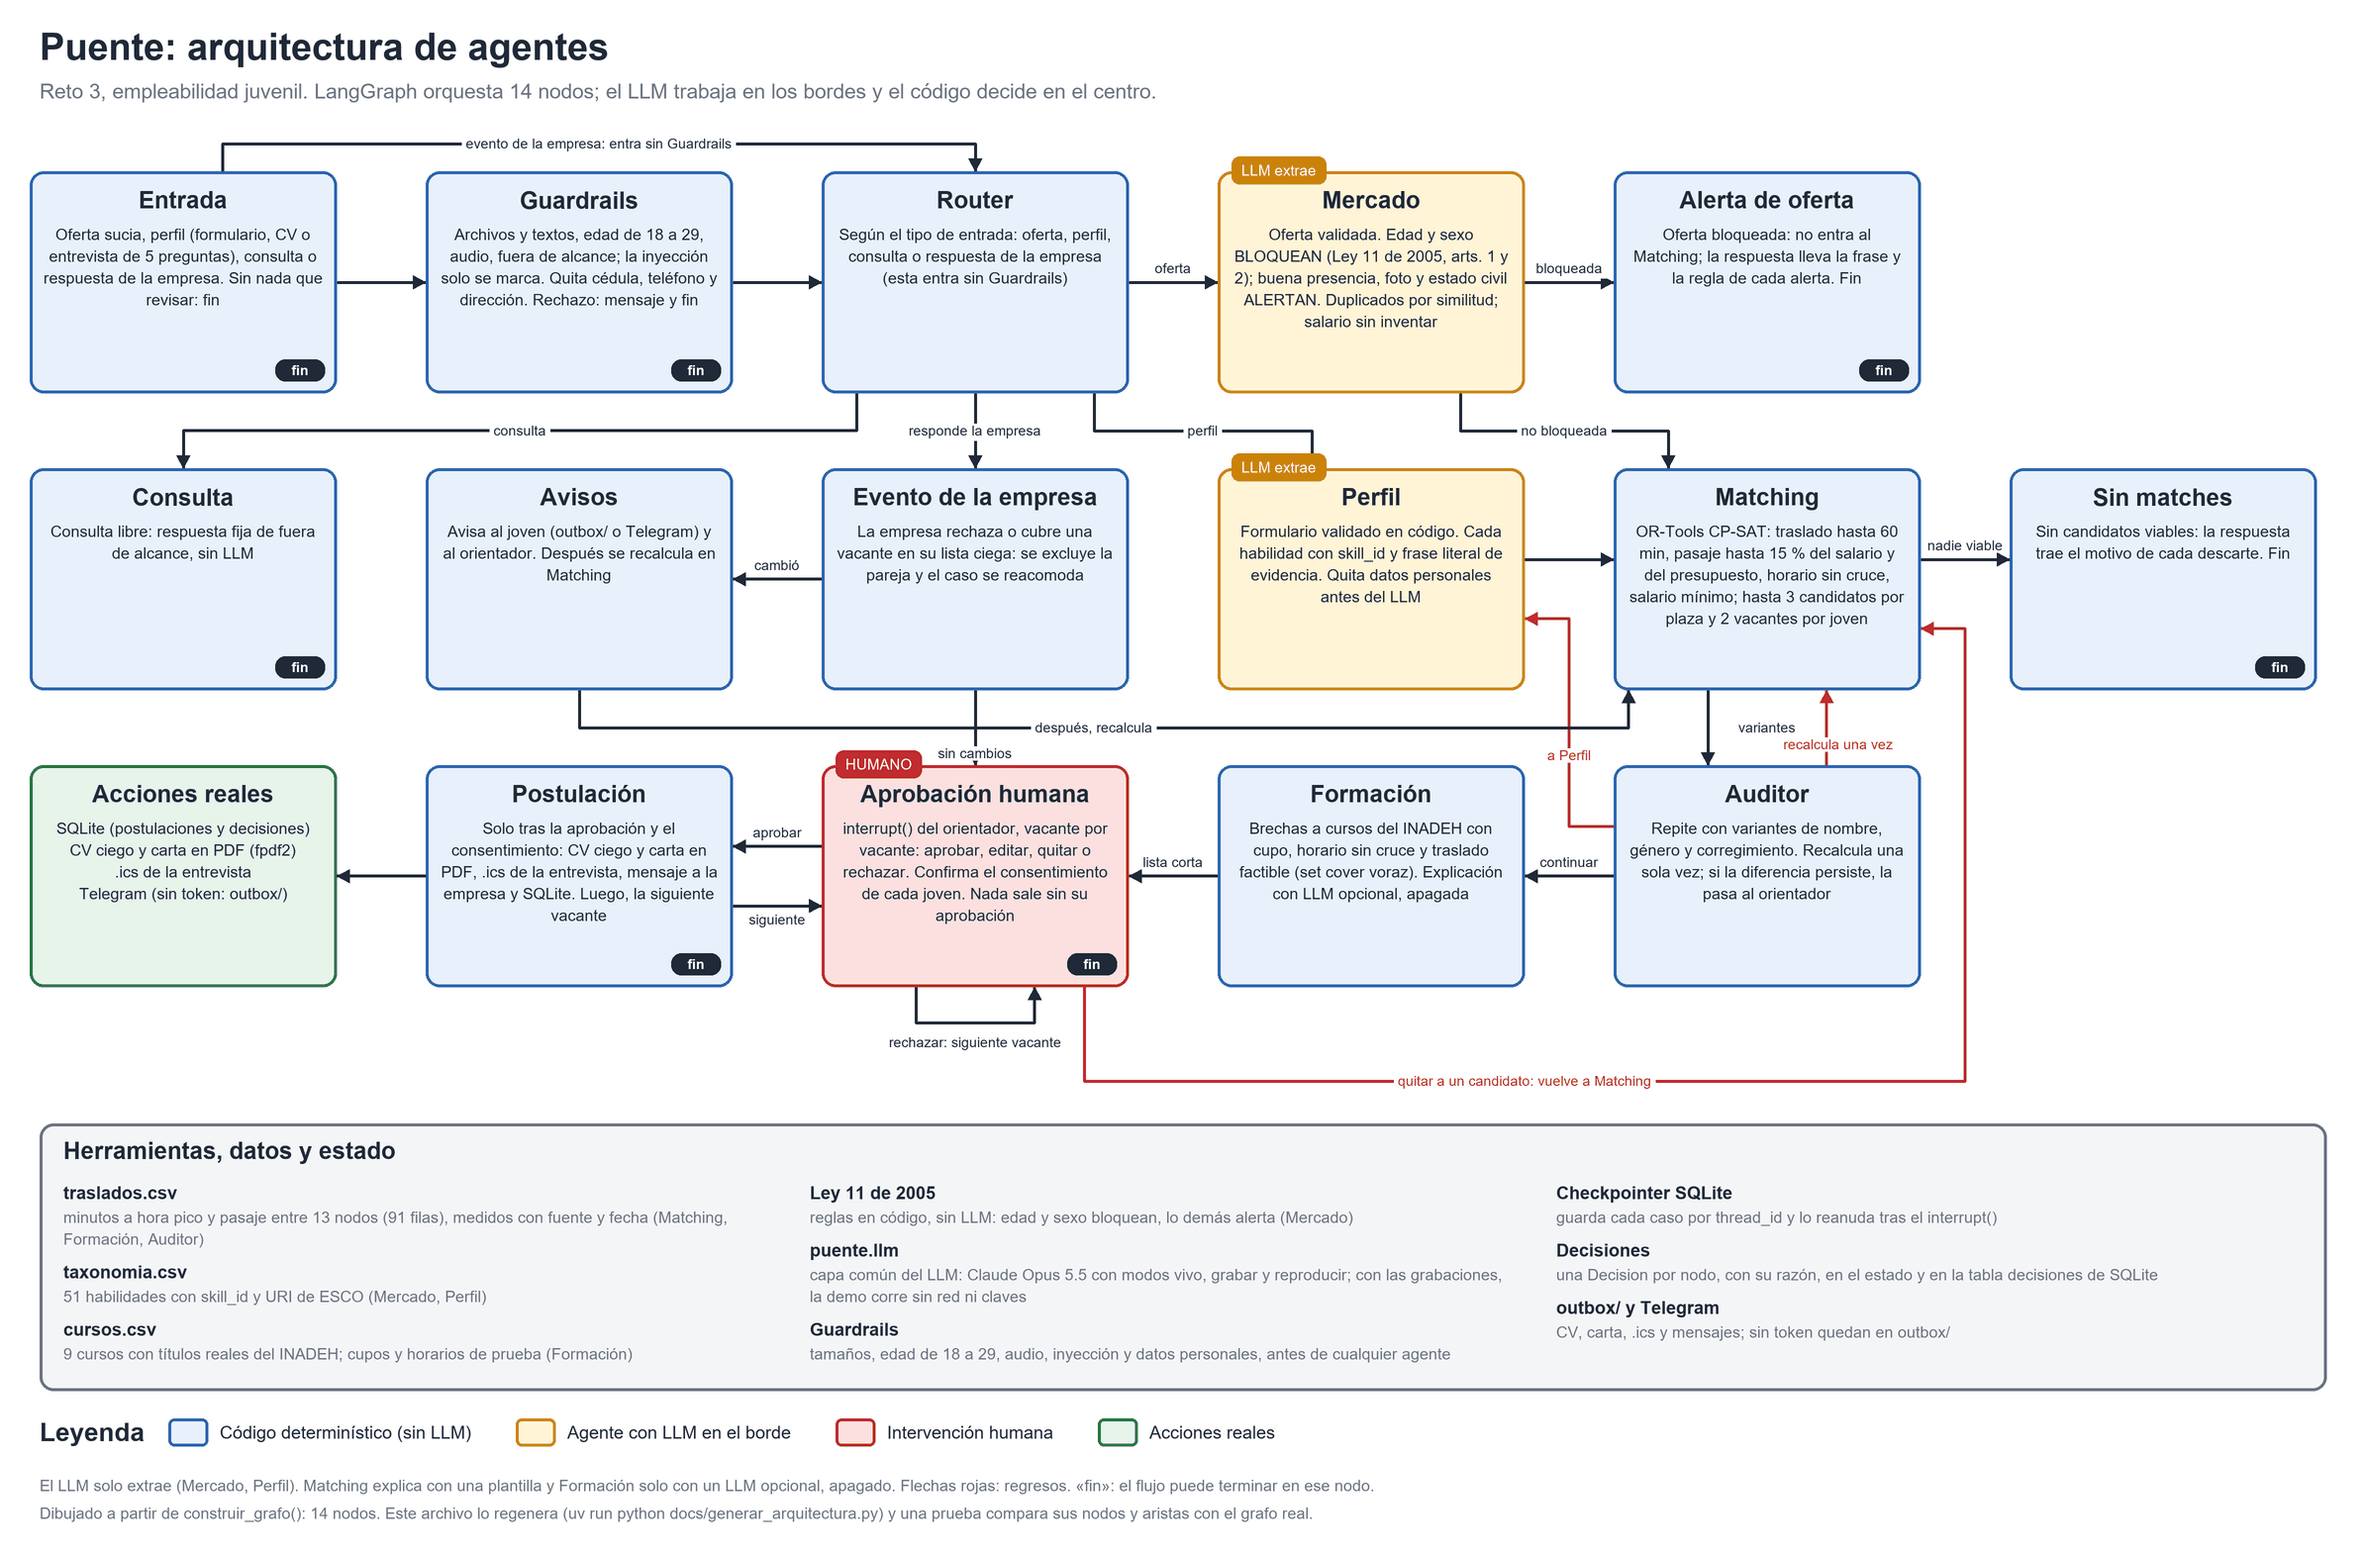
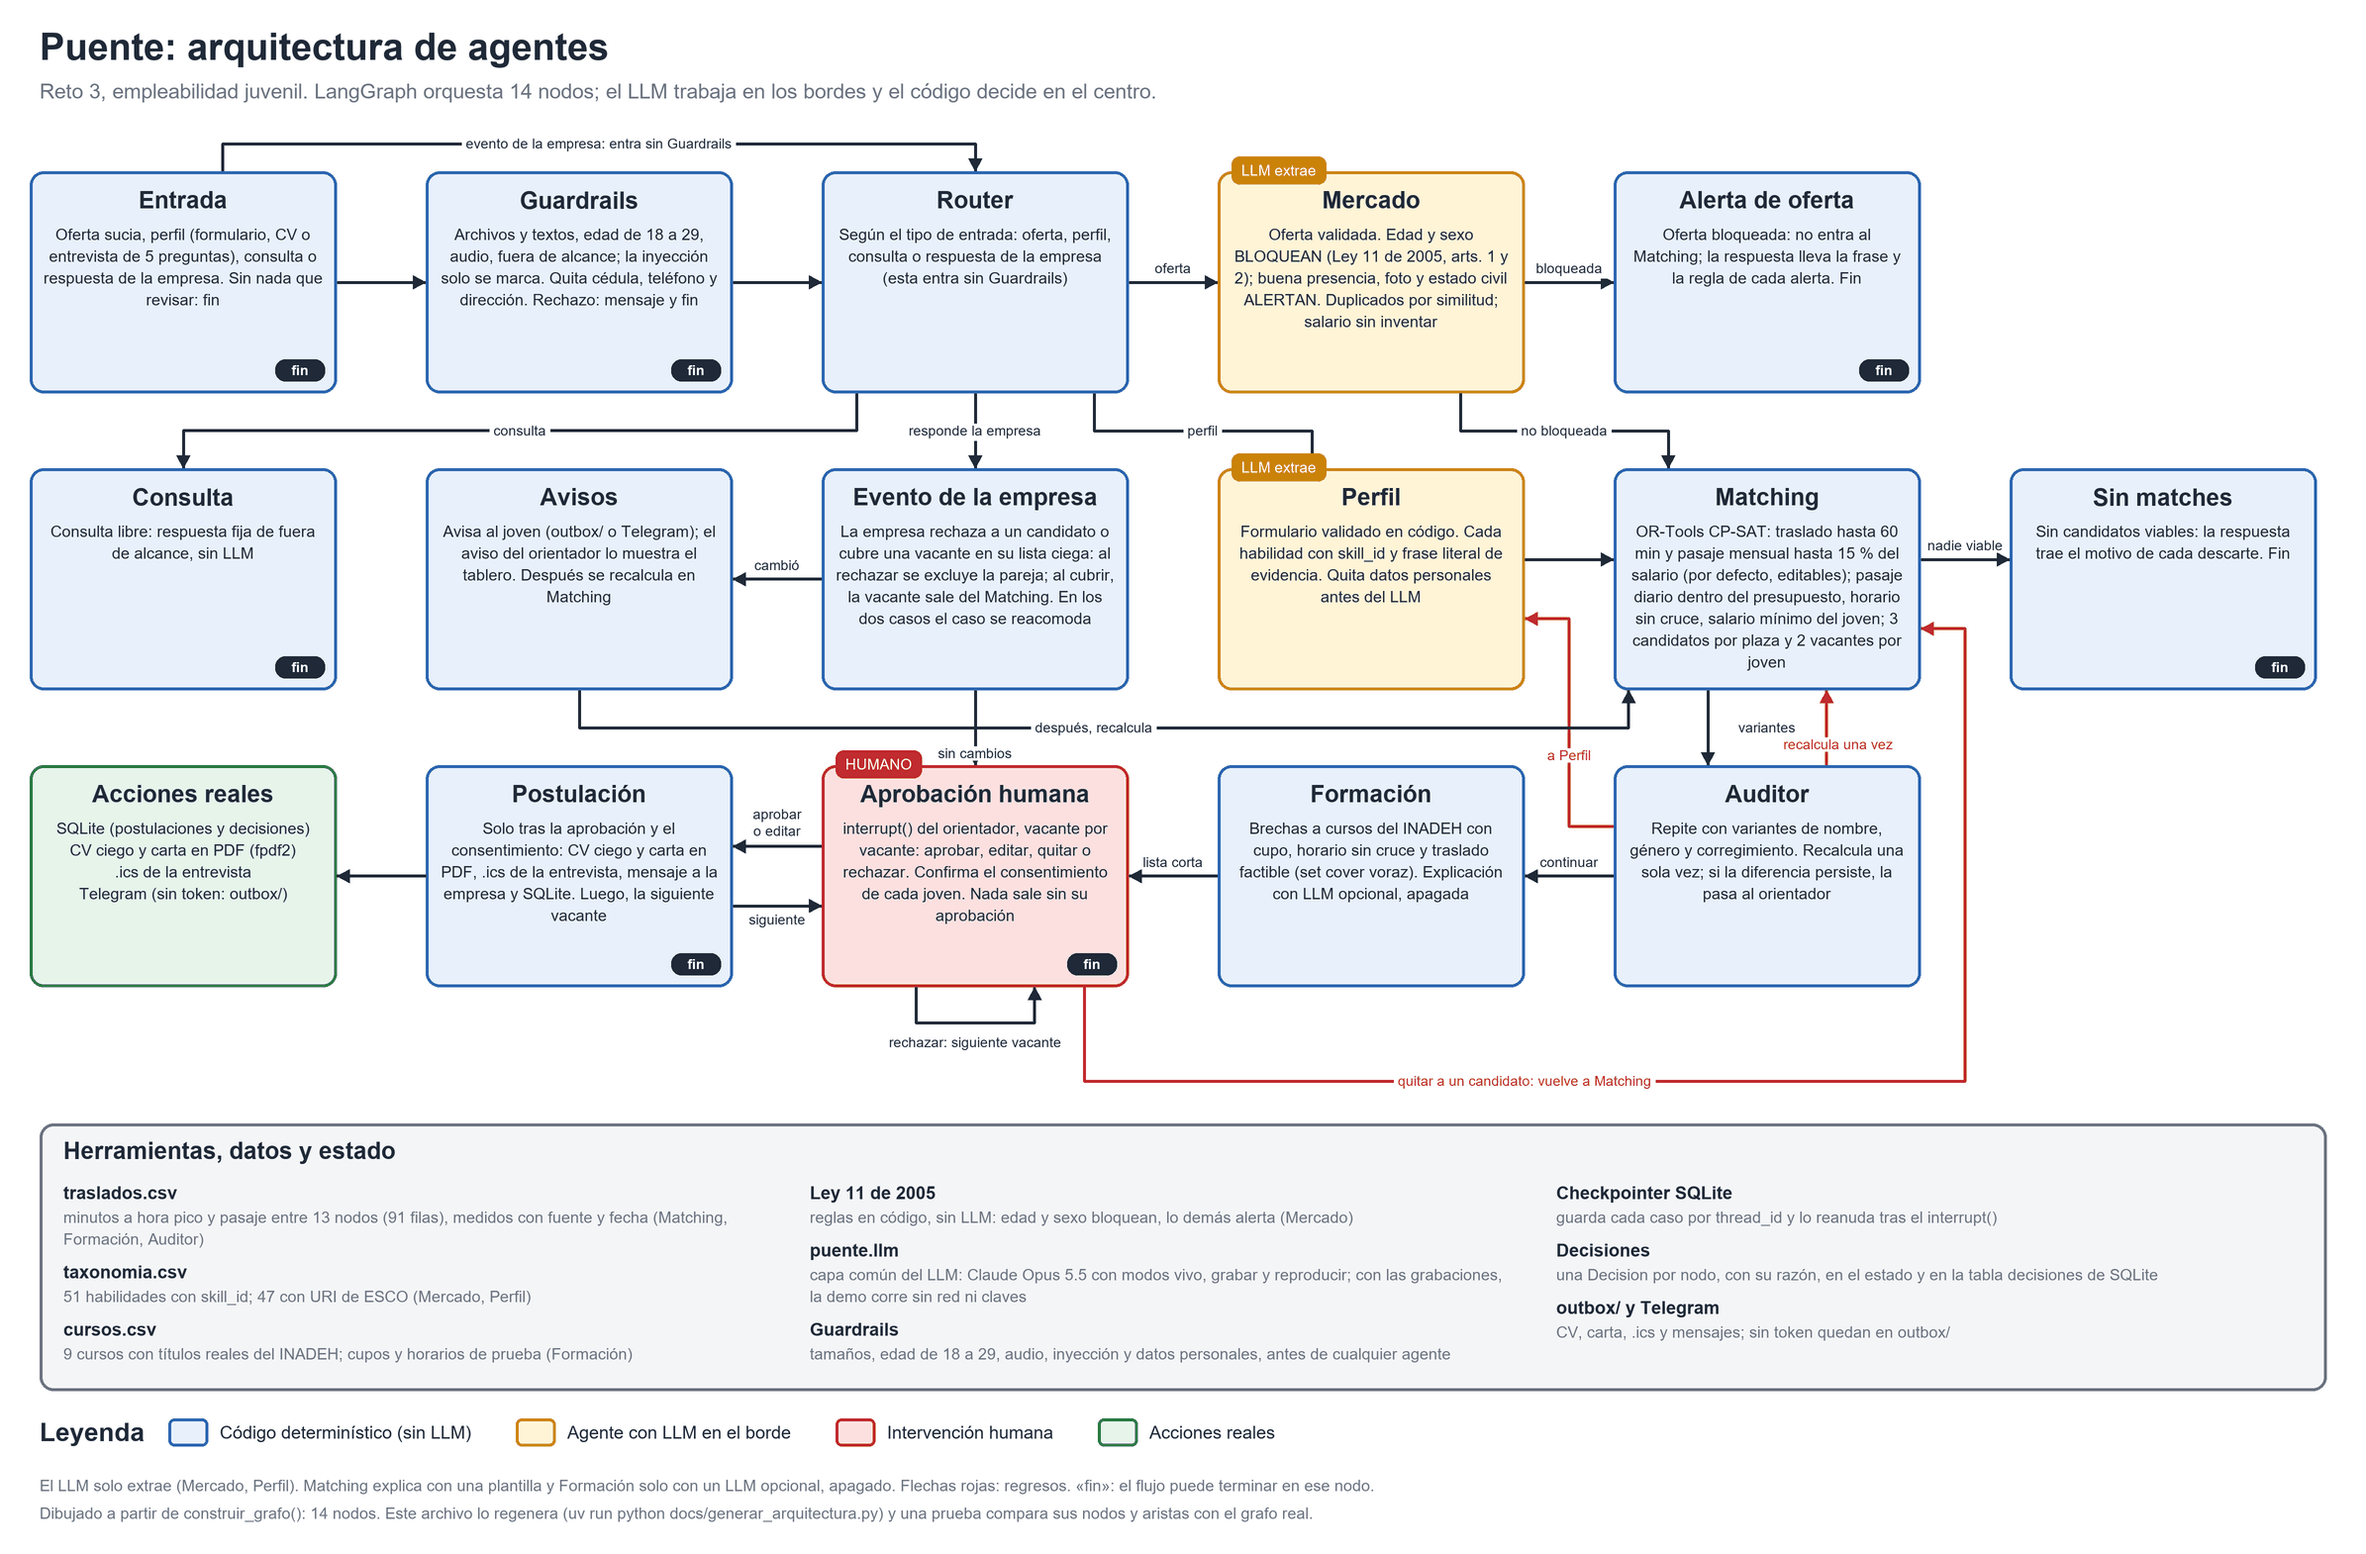
docs(arquitectura): corregir tres frases del diagrama, topes de Matching y rótulo «aprobar o editar» (#15)

diff --git a/docs/generar_arquitectura.py b/docs/generar_arquitectura.py
@@ -79,11 +79,12 @@ NODOS: dict[str, dict] = {
     ),
     "avisos": dict(
         col=1, fila=2, estilo="codigo", titulo="Avisos",
-        cuerpo="Avisa al joven (outbox/ o Telegram) y al orientador. Después se recalcula en Matching",
+        cuerpo="Avisa al joven (outbox/ o Telegram); el aviso del orientador lo muestra el tablero. Después se recalcula en Matching",
     ),
     "evento_empresa": dict(
         col=2, fila=2, estilo="codigo", titulo="Evento de la empresa",
-        cuerpo="La empresa rechaza o cubre una vacante en su lista ciega: se excluye la pareja y el caso se reacomoda",
+        cuerpo="La empresa rechaza a un candidato o cubre una vacante en su lista ciega: al rechazar se excluye la pareja; "
+        "al cubrir, la vacante sale del Matching. En los dos casos el caso se reacomoda",
     ),
     "perfil": dict(
         col=3, fila=2, estilo="llm", titulo="Perfil", insignia="LLM extrae",
@@ -92,8 +93,9 @@ NODOS: dict[str, dict] = {
     ),
     "matching": dict(
         col=4, fila=2, estilo="codigo", titulo="Matching",
-        cuerpo="OR-Tools CP-SAT: traslado hasta 60 min, pasaje hasta 15 % del salario y del presupuesto, horario sin "
-        "cruce, salario mínimo; hasta 3 candidatos por plaza y 2 vacantes por joven",
+        cuerpo="OR-Tools CP-SAT: traslado hasta 60 min y pasaje mensual hasta 15 % del salario (por defecto, editables); "
+        "pasaje diario dentro del presupuesto, horario sin cruce, salario mínimo del joven; 3 candidatos por plaza y "
+        "2 vacantes por joven",
     ),
     "sin_matches": dict(
         col=5, fila=2, estilo="codigo", titulo="Sin matches", fin=True,
@@ -131,7 +133,7 @@ PANEL = (
     ("Datos", (
         ("traslados.csv", "minutos a hora pico y pasaje entre 13 nodos (91 filas), medidos con fuente y fecha "
          "(Matching, Formación, Auditor)"),
-        ("taxonomia.csv", "51 habilidades con skill_id y URI de ESCO (Mercado, Perfil)"),
+        ("taxonomia.csv", "51 habilidades con skill_id; 47 con URI de ESCO (Mercado, Perfil)"),
         ("cursos.csv", "9 cursos con títulos reales del INADEH; cupos y horarios de prueba (Formación)"),
     )),
     ("Reglas y LLM", (
@@ -291,7 +293,7 @@ def _rutas() -> list[tuple[Arista, list[tuple[float, float]], tuple[float, float
     ruta = recta("formacion", "izq", "aprobacion", "der")
     hay(Arista("formacion", "aprobacion", "lista corta"), ruta, (mitad(ruta)[0], ruta[0][1] - 14))
     ruta = recta("aprobacion", "izq", "postulacion", "der", -30)
-    hay(Arista("aprobacion", "postulacion", "aprobar"), ruta, (mitad(ruta)[0], ruta[0][1] - 14))
+    hay(Arista("aprobacion", "postulacion", "aprobar\no editar"), ruta, (mitad(ruta)[0], ruta[0][1] - 24))
     ruta = recta("postulacion", "der", "aprobacion", "izq", 30)
     hay(Arista("postulacion", "aprobacion", "siguiente"), ruta, (mitad(ruta)[0], ruta[0][1] + 14))
     x_a, y_a = centro_x("aprobacion"), caja_de(NODOS["aprobacion"])[3]
@@ -369,10 +371,14 @@ def flecha(d, puntos, color=TINTA, ancho=3):
 
 
 def rotulo(d, x, y, texto, color=TINTA, tamano=14, ancla="mm"):
+    """Rótulo sobre fondo blanco; un salto de línea parte el texto en renglones centrados en (x, y)."""
     letra = fuente(tamano)
-    caja_texto = d.textbbox(e(x, y), texto, font=letra, anchor=ancla)
-    d.rectangle((caja_texto[0] - 4 * E, caja_texto[1] - 2 * E, caja_texto[2] + 4 * E, caja_texto[3] + 2 * E), fill="white")
-    d.text(e(x, y), texto, font=letra, fill=color, anchor=ancla)
+    renglones = texto.split("\n")
+    for i, renglon in enumerate(renglones):
+        yy = y + (i - (len(renglones) - 1) / 2) * (tamano + 3)
+        caja_texto = d.textbbox(e(x, yy), renglon, font=letra, anchor=ancla)
+        d.rectangle((caja_texto[0] - 4 * E, caja_texto[1] - 2 * E, caja_texto[2] + 4 * E, caja_texto[3] + 2 * E), fill="white")
+        d.text(e(x, yy), renglon, font=letra, fill=color, anchor=ancla)
 
 
 def dibujar() -> Image.Image:

diff --git a/tests/test_arquitectura.py b/tests/test_arquitectura.py
@@ -79,6 +79,23 @@ def test_el_diagrama_no_dice_stubs_ni_gemini() -> None:
     assert "claude opus 5.5" in texto
 
 
+def test_las_cifras_del_panel_son_las_de_los_datos() -> None:
+    """El panel cita cifras de data/: si un CSV cambia y el panel no, falla (el PNG decía 51 con URI y son 47)."""
+    import csv
+
+    def filas(nombre: str) -> list[dict]:
+        with open(RAIZ / "data" / nombre, encoding="utf-8", newline="") as archivo:
+            return list(csv.DictReader(archivo))
+
+    taxonomia, traslados, cursos = filas("taxonomia.csv"), filas("traslados.csv"), filas("cursos.csv")
+    con_uri = sum(1 for fila in taxonomia if fila["uri_esco"].strip())
+    nodos = {fila["origen"] for fila in traslados} | {fila["destino"] for fila in traslados}
+    panel = " ".join(f"{titulo} {texto}" for _, grupo in gen.PANEL for titulo, texto in grupo)
+    assert f"{len(taxonomia)} habilidades con skill_id; {con_uri} con URI de ESCO" in panel
+    assert f"entre {len(nodos)} nodos ({len(traslados)} filas)" in panel
+    assert f"{len(cursos)} cursos con títulos reales del INADEH" in panel
+
+
 def test_el_png_es_el_que_dibuja_este_generador() -> None:
     """El PNG guardado lleva la huella de los datos con que se dibujó: si cambian nodos, aristas o textos y no se
     vuelve a correr `uv run python docs/generar_arquitectura.py`, esta prueba falla."""

diff --git a/docs/bitacora_ia.md b/docs/bitacora_ia.md
@@ -439,3 +439,4 @@ Claude Code agrupa la app de escritorio, la terminal, las sesiones en la nube y 
 | 2026-10-16 18:37 | jesus12ga | Claude Code (Opus 5.5) | #15 · revisión del PR #57 y puesta al día con main: README (cobertura del reto 5.4, requisitos, Auditor v2, Mercado v2, Perfil v2, grafo fase 1, guardrails v2, nivel agéntico), metodología con decisiones de diseño, diagrama regenerado con docs/generar_arquitectura.py y pruebas de docs ajustadas | cifras del INEC verificadas a mano en el PDF de la fuente; se quitó el 19.9 % de prensa como pide #47; fila de #50 en la bitácora con la barra vertical cambiada por / para que la tabla no se rompa |
 | 2026-10-16 18:41 | jesus12ga | Claude Code (Opus 5.5) | #15 · traer #51 a la rama y actualizar README, metodología y diagrama: traslados medidos, taxonomía ESCO y cursos INADEH con cupos de prueba, según data/FUENTES.md | se verificaron a mano en data/traslados.csv los pares de Yaritza citados; se quitó la copia rota de la fila de #50 que reintrodujo la fusión por unión |
 | 2026-10-17 10:06 | jesus12ga | Claude Code (Sonnet 5.5) | #15 · Rescatar del PR #57 el diagrama de arquitectura: docs/generar_arquitectura.py puesto al día con los 14 nodos y las 30 aristas reales de construir_grafo() (aprobación humana marcada, regresos en rojo, sin stubs ni Gemini), docs/arquitectura.png regenerado y enlazado desde el README y la metodología junto al Mermaid, tests/test_arquitectura.py que compara nodos y aristas con el grafo real y exige que el PNG se haya regenerado, y las 6 filas de bitácora del #57 que no estaban en main | Revisé el PNG a mano dos veces y ajusté textos al código (consulta, alerta_oferta, sin_matches y el Auditor sin línea base); alteré el generador de tres formas para comprobar que las pruebas fallan; las 6 filas de bitácora van tal cual, sin editar |
+| 2026-10-17 10:13 | jesus12ga | Claude Code (Sonnet 5.5) | #15 · Corregir el diagrama del PR #288 tras su revisión: la taxonomía dice 51 habilidades y 47 con URI de ESCO, Avisos solo avisa al joven (el aviso del orientador lo muestra el tablero), el evento de la empresa excluye la pareja solo al rechazar y al cubrir la vacante sale del Matching, Matching con topes por defecto editables y el pasaje bien dicho, flecha «aprobar o editar» en dos renglones, PNG regenerado, y una prueba que compara las cifras del panel con los CSV de data/ | Verifiqué las tres frases contra el código antes de cambiarlas (47 URIs en data/taxonomia.csv, crear_nodo_avisos y nodo_evento_empresa); un salto de línea mal escapado rompió dos veces el generador, lo vi en la sintaxis y lo arreglé; revisé el PNG a mano |
